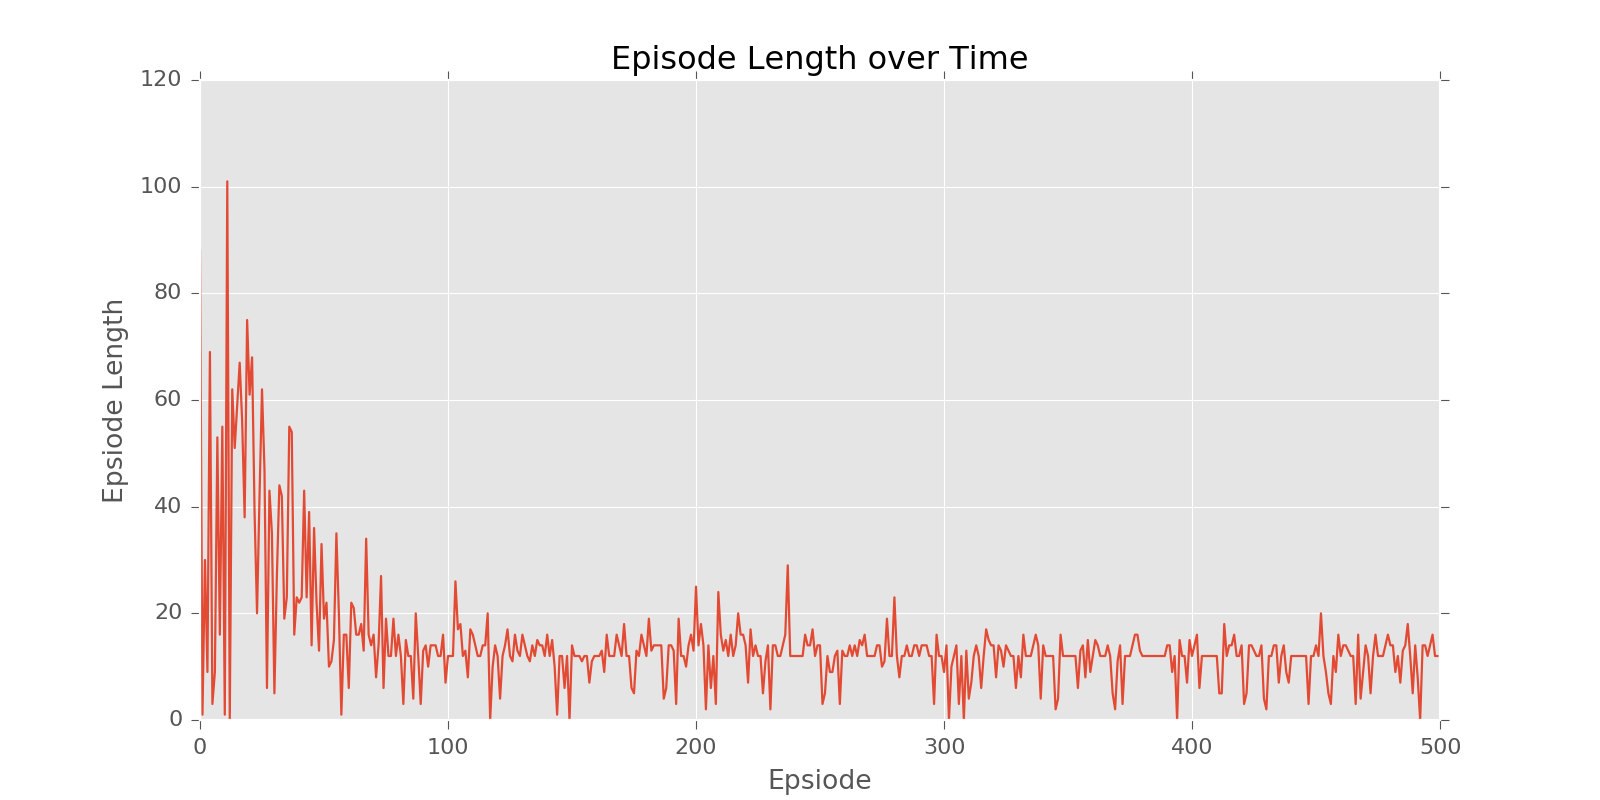
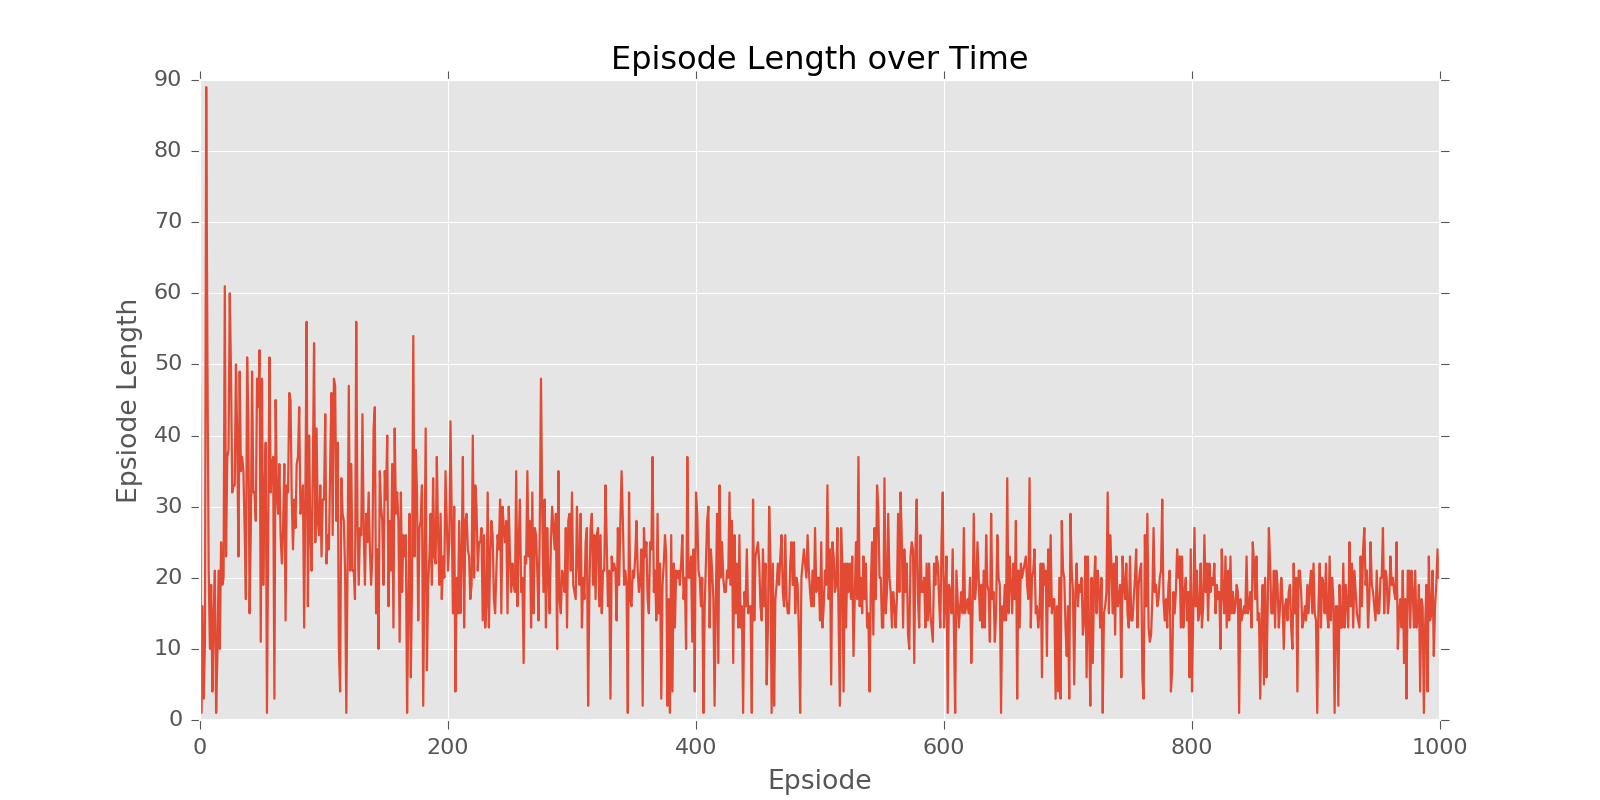
G-Learning and Q-Learning updates, made Q-Learning code similar

Changed region(s): [[0.0625, 0.2188, 0.9062, 0.9062], [0.875, 0.9062, 0.9062, 0.9375], [0.5625, 0.9062, 0.5938, 0.9375]]

diff --git a/q_learning/Q-Learning.py b/q_learning/Q-Learning.py
@@ -1,5 +1,7 @@
 """
-Code for basic tabular Q-learning. This is adapted from Denny Britz's repository.
+Code for basic tabular Q-learning. This is adapted from Denny Britz's
+repository. I updated it to use a class to more closely match the G-learning
+code.
 
 Observations for the **cliff_walking** scenario:
 
@@ -46,100 +48,123 @@ from lib import plotting
 matplotlib.style.use('ggplot')
 
 
-def make_epsilon_greedy_policy(Q, epsilon, nA):
-    """ Creates an epsilon-greedy policy based on a given Q-function and
-    epsilon.
+class QLearningAgent():
 
-    Args:
-        Q: A dictionary that maps from state -> action-values.  Each value is a
-            numpy array of length nA (see below).
-        epsilon: The probability to select a random action; a float between 0
-            and 1.
-        nA: Number of actions in the environment.
+    def __init__(self, env):
+        """ For now, we'll make a limitation that we know the number of states
+        and actions.  It creates:
+        
+        - Q: Contains Q(state,action) values.
+        - N: Contains N(state,action) values, counts of the times each
+            state-action pair was visited; needed for some alpha updates.
 
-    Returns:
-        A function that takes the observation as an argument and returns the
-        probabilities for each action in the form of a numpy array of length nA.
-    """
-    def policy_fn(observation):
-        A = np.ones(nA, dtype=float) * epsilon / nA
-        best_action = np.argmax(Q[observation])
-        A[best_action] += (1.0 - epsilon)
-        return A
-    return policy_fn
+        Args:
+            env: An OpenAI gym environment, either custom or built-in, but be
+                aware that not all of them can be used in this setting.
+        """
+        ns, na = env.observation_space.n, env.action_space.n
+        self.Q = np.zeros((ns,na))
+        self.N = np.zeros((ns,na))
 
 
-def q_learning(env, num_episodes, discount_factor=1.0, alpha=0.5, epsilon=0.1):
-    """ Q-Learning algorithm: Off-policy TD control. Finds the optimal greedy
-    policy while following an epsilon-greedy policy.
+    def policy_exploration(self, state, epsilon=0.0):
+        """ The agent's current exploration policy. Right now we default to
+        epsilon-greedy on the Q(s,a) values.
+        
+        Args:
+            state: The current state the agent is in.
+            epsilon: The probability of taking a random action.
+        
+        Returns:
+            The action to take.
+        """
+        na = self.Q.shape[1]
+        action_probs = np.ones(na, dtype=float) * epsilon / na
+        best_action = np.argmax(self.Q[state,:])
+        action_probs[best_action] += (1.0-epsilon)
+        return np.random.choice(np.arange(na), p=action_probs)
+ 
 
-    Args:
-        env: OpenAI environment.
-        num_episodes: Number of episodes to run for.
-        discount_factor: Lambda time discount factor.
-        alpha: TD learning rate.
-        epsilon: Chance the sample a random action. Float betwen 0 and 1.
+    def alpha_schedule(self, t, state, action):
+        """ The alpha scheduling.
+        
+        Args:
+            t: The iteration of the current episode (t >= 1).
+            state: The current state.
+            action: The current action.
 
-    Returns:
-        A tuple (Q, episode_lengths). Q is the optimal action-value function, a
-        dictionary mapping state -> action values.  stats is an EpisodeStats
-        object with two numpy arrays for episode_lengths and episode_rewards.
-    """
-    # The final action-value function.
-    # A nested dictionary that maps state -> (action -> action-value).
-    Q = defaultdict(lambda: np.zeros(env.action_space.n))
+        Returns:
+            The alpha to use for the Q-learning update.
+        """
+        # return 0.5     # the most basic strategy
+        alpha = self.N[state,action] ** -0.8
+        assert 0 < alpha <= 1, "Error, alpha = {}".format(alpha)
+        return alpha
 
-    # Keeps track of useful statistics
-    stats = plotting.EpisodeStats(episode_lengths=np.zeros(num_episodes),
-                                  episode_rewards=np.zeros(num_episodes))
 
-    # The policy we're following
-    policy = make_epsilon_greedy_policy(Q, epsilon, env.action_space.n)
+    def q_learning(self, num_episodes, max_ep_steps=10000, discount=1.0, epsilon=0.1):
+        """ The Q-learning algorithm.
+    
+        Args:
+            num_episodes: Number of episodes to run.
+            max_ep_steps: Maximum time steps allocated to one episode.
+            discount: Standard discount factor, usually denoted as \gamma.
+            epsilon: Probability of taking random actions during exploration.
+    
+        Returns:
+            A tuple (Q, stats) of the Q-values and statistics, which should be
+            plotted and thoroughly analyzed.
+        """
+        cum_t = 0
+        stats = plotting.EpisodeStats(episode_lengths=np.zeros(num_episodes),
+                                      episode_rewards=np.zeros(num_episodes))
 
-    for i_episode in range(num_episodes):
-        if (i_episode + 1) % 1 == 0:
-            print("\rEpisode {}/{}.".format(i_episode + 1, num_episodes), end="")
-            sys.stdout.flush()
-        state = env.reset()
-                        
-        # One step in the environment
-        for t in itertools.count():
+        for i_episode in range(num_episodes):
+            if (i_episode+1) % 1 == 0:
+                print("\rEpisode {}/{}.".format(i_episode+1, num_episodes), end="")
+                sys.stdout.flush()
+            state = env.reset()
 
-            # Take a step (note: action_probs is always a 0.925-0.025x3 split
-            # due to the way the code is structured).
-            action_probs = policy(state)
-            action = np.random.choice(np.arange(len(action_probs)), p=action_probs)
-            next_state, reward, done, _ = env.step(action)
+            # Run this episode until we finish as indicated by the environment.
+            for t in range(1, max_ep_steps+1):
 
-            # Update statistics
-            stats.episode_rewards[i_episode] += reward
-            stats.episode_lengths[i_episode] = t
+                # Uses exploration policy to take a step.
+                action = self.policy_exploration(state, epsilon)
+                next_state, reward, done, _ = env.step(action)
 
-            # TD Update
-            best_next_action = np.argmax(Q[next_state])    
-            td_target = reward + discount_factor * Q[next_state][best_next_action]
-            td_delta = td_target - Q[state][action]
-            Q[state][action] += alpha * td_delta
+                # Collect statistics (cum_t currently not used).
+                stats.episode_rewards[i_episode] += reward
+                stats.episode_lengths[i_episode] = t
+                self.N[state,action] += 1
+                cum_t += 1
 
-            if done:
-                break
-            state = next_state
+                # The official Q-learning update.
+                alpha = self.alpha_schedule(t, state, action)
+                best_next_action = np.argmax(self.Q[next_state,:])
+                td_target = reward + discount * self.Q[next_state,best_next_action]
+                td_delta = td_target - self.Q[state,action]
+                self.Q[state,action] += (alpha * td_delta)
 
-    print("")
-    return Q, stats
+                if done:
+                    break
+                state = next_state
+    
+        print("")
+        return self.Q, stats
 
 
 if __name__ == "__main__":
-    """ Testing using Denny's implementation of Cliff Walking.  Make sure I use
-    the correct figdir!! I don't want to override figures.
-    """
+    """ This will run Q-learning. Be sure to double check all parameters,
+    including the ones for plotting (e.g., file names).  """
+
     env = CliffWalkingEnv()
-    Q, stats = q_learning(env, 
-                          num_episodes=500,
-                          discount_factor=0.95,
-                          epsilon=0.1)
-    plotting.plot_episode_stats(stats, 
-                                smoothing_window=10,
-                                noshow=False, 
+    agent = QLearningAgent(env) 
+    Q, stats = agent.q_learning(num_episodes=1000,
+                                max_ep_steps=500,
+                                discount=0.95,
+                                epsilon=0.1)
+    plotting.plot_episode_stats(stats,
+                                smoothing_window=5,
+                                noshow=False,
                                 figdir="figures/cliff_",
                                 dosave=True)

diff --git a/g_learning/G-Learning.py b/g_learning/G-Learning.py
@@ -9,7 +9,7 @@ G-Learning, as described in:
 This code will face the same constraints as Denny Britz's code, i.e. we need
 simple tabular scenarios. I have tested G-learning on the following:
 
-1. TODO
+1. CliffWorldEnv. It runs, but the results seem to be worse than Q-learning.
 """
 
 from __future__ import print_function
@@ -36,9 +36,6 @@ class GLearningAgent():
         - G: Contains G(state,action) values.
         - N: Contains N(state,action) values, counts of the times each
             state-action pair was visited; needed for the alpha update.
-        - V: The total discounted expected cost.
-        - I: The total discounted expected information cost.
-        - F: The free energy function.
         - rho: The \rho(a|s) function in the paper, the prior policy (see
             Section 3.1 in the paper). ** Assumes uniform prior!! **
 
@@ -50,9 +47,6 @@ class GLearningAgent():
         ns, na = env.observation_space.n, env.action_space.n
         self.G = np.zeros((ns,na))
         self.N = np.zeros((ns,na))
-        self.V = np.zeros(ns) # not needed
-        self.I = np.zeros(ns) # not needed
-        self.F = np.zeros(ns) # not needed
         self.rho = np.ones((ns,na), dtype=float) / na
         self.k = k
 
@@ -68,18 +62,18 @@ class GLearningAgent():
         Returns:
             The action to take.
         """
-        num_actions = self.G.shape[1]
-        action_probs = np.ones(num_actions, dtype=float) * epsilon / num_actions
+        na = self.G.shape[1]
+        action_probs = np.ones(na, dtype=float) * epsilon / na
         best_action = np.argmax(self.G[state,:])
         action_probs[best_action] += (1.0-epsilon)
-        return np.random.choice(np.arange(num_actions), p=action_probs)
+        return np.random.choice(np.arange(na), p=action_probs)
  
 
     def alpha_schedule(self, t, state, action):
         """ The alpha scheduling. By default, Equation 29 in the paper.
         
         Args:
-            t: The iteration of the current episode.
+            t: The iteration of the current episode (t >= 1).
             state: The current state.
             action: The current action.
 
@@ -95,7 +89,7 @@ class GLearningAgent():
         """ The beta scheduling. By default, Equation 26 in the paper.
         
         Args:
-            t: The iteration of the current episode.
+            t: The iteration of the current episode (t >= 1).
 
         Returns:
             The beta to use for the G-learning update. If it's 0, G-learning
@@ -117,8 +111,8 @@ class GLearningAgent():
             epsilon: Probability of taking random actions during exploration.
     
         Returns:
-            A tuple (G, stats) of the G-values and statistics, the latter of
-            which should be plotted thoroughly analyzed.
+            A tuple (G, stats) of the G-values and statistics, which should be
+            plotted and thoroughly analyzed.
         """
         cum_t = 0
         stats = plotting.EpisodeStats(episode_lengths=np.zeros(num_episodes),
@@ -132,16 +126,17 @@ class GLearningAgent():
 
             # Run this episode until we finish as indicated by the environment.
             for t in range(1, max_ep_steps+1):
-                cum_t += 1
 
-                # Uses exploration policy to take a step, then collect
-                # statistics.  The G-learning paper uses costs, not rewards.               
+                # Uses exploration policy to take a step.
                 action = self.policy_exploration(state, epsilon)
                 next_state, reward, done, _ = env.step(action)
                 cost = -reward 
+
+                # Collect statistics (cum_t currently not used).
                 stats.episode_rewards[i_episode] += cost
                 stats.episode_lengths[i_episode] = t
                 self.N[state,action] += 1
+                cum_t += 1
 
                 # Intermediate terms for the G-learning update.
                 alpha = self.alpha_schedule(t, state, action)
@@ -149,7 +144,7 @@ class GLearningAgent():
                 temp = np.sum(self.rho[next_state,:] * 
                               np.exp(-beta * self.G[next_state,:]))
 
-                # The official G-learning update at last.
+                # Official G-learning update at last. Equation 18 in the paper.
                 td_target = cost - (discount/beta) * np.log(temp)
                 td_delta = td_target - self.G[state,action]
                 self.G[state,action] += (alpha * td_delta)
@@ -168,9 +163,9 @@ if __name__ == "__main__":
 
     # Should test with k in {1e-3, 1e-4, 5*1e-5, 1e-6}
     env = CliffWalkingEnv()
-    agent = GLearningAgent(env, k=1e-3) 
-    G, stats = agent.g_learning(num_episodes=500,
-                                max_ep_steps=10000,
+    agent = GLearningAgent(env, k=1e-4) 
+    G, stats = agent.g_learning(num_episodes=1000,
+                                max_ep_steps=500,
                                 discount=0.95,
                                 epsilon=0.1)
     plotting.plot_episode_stats(stats,
